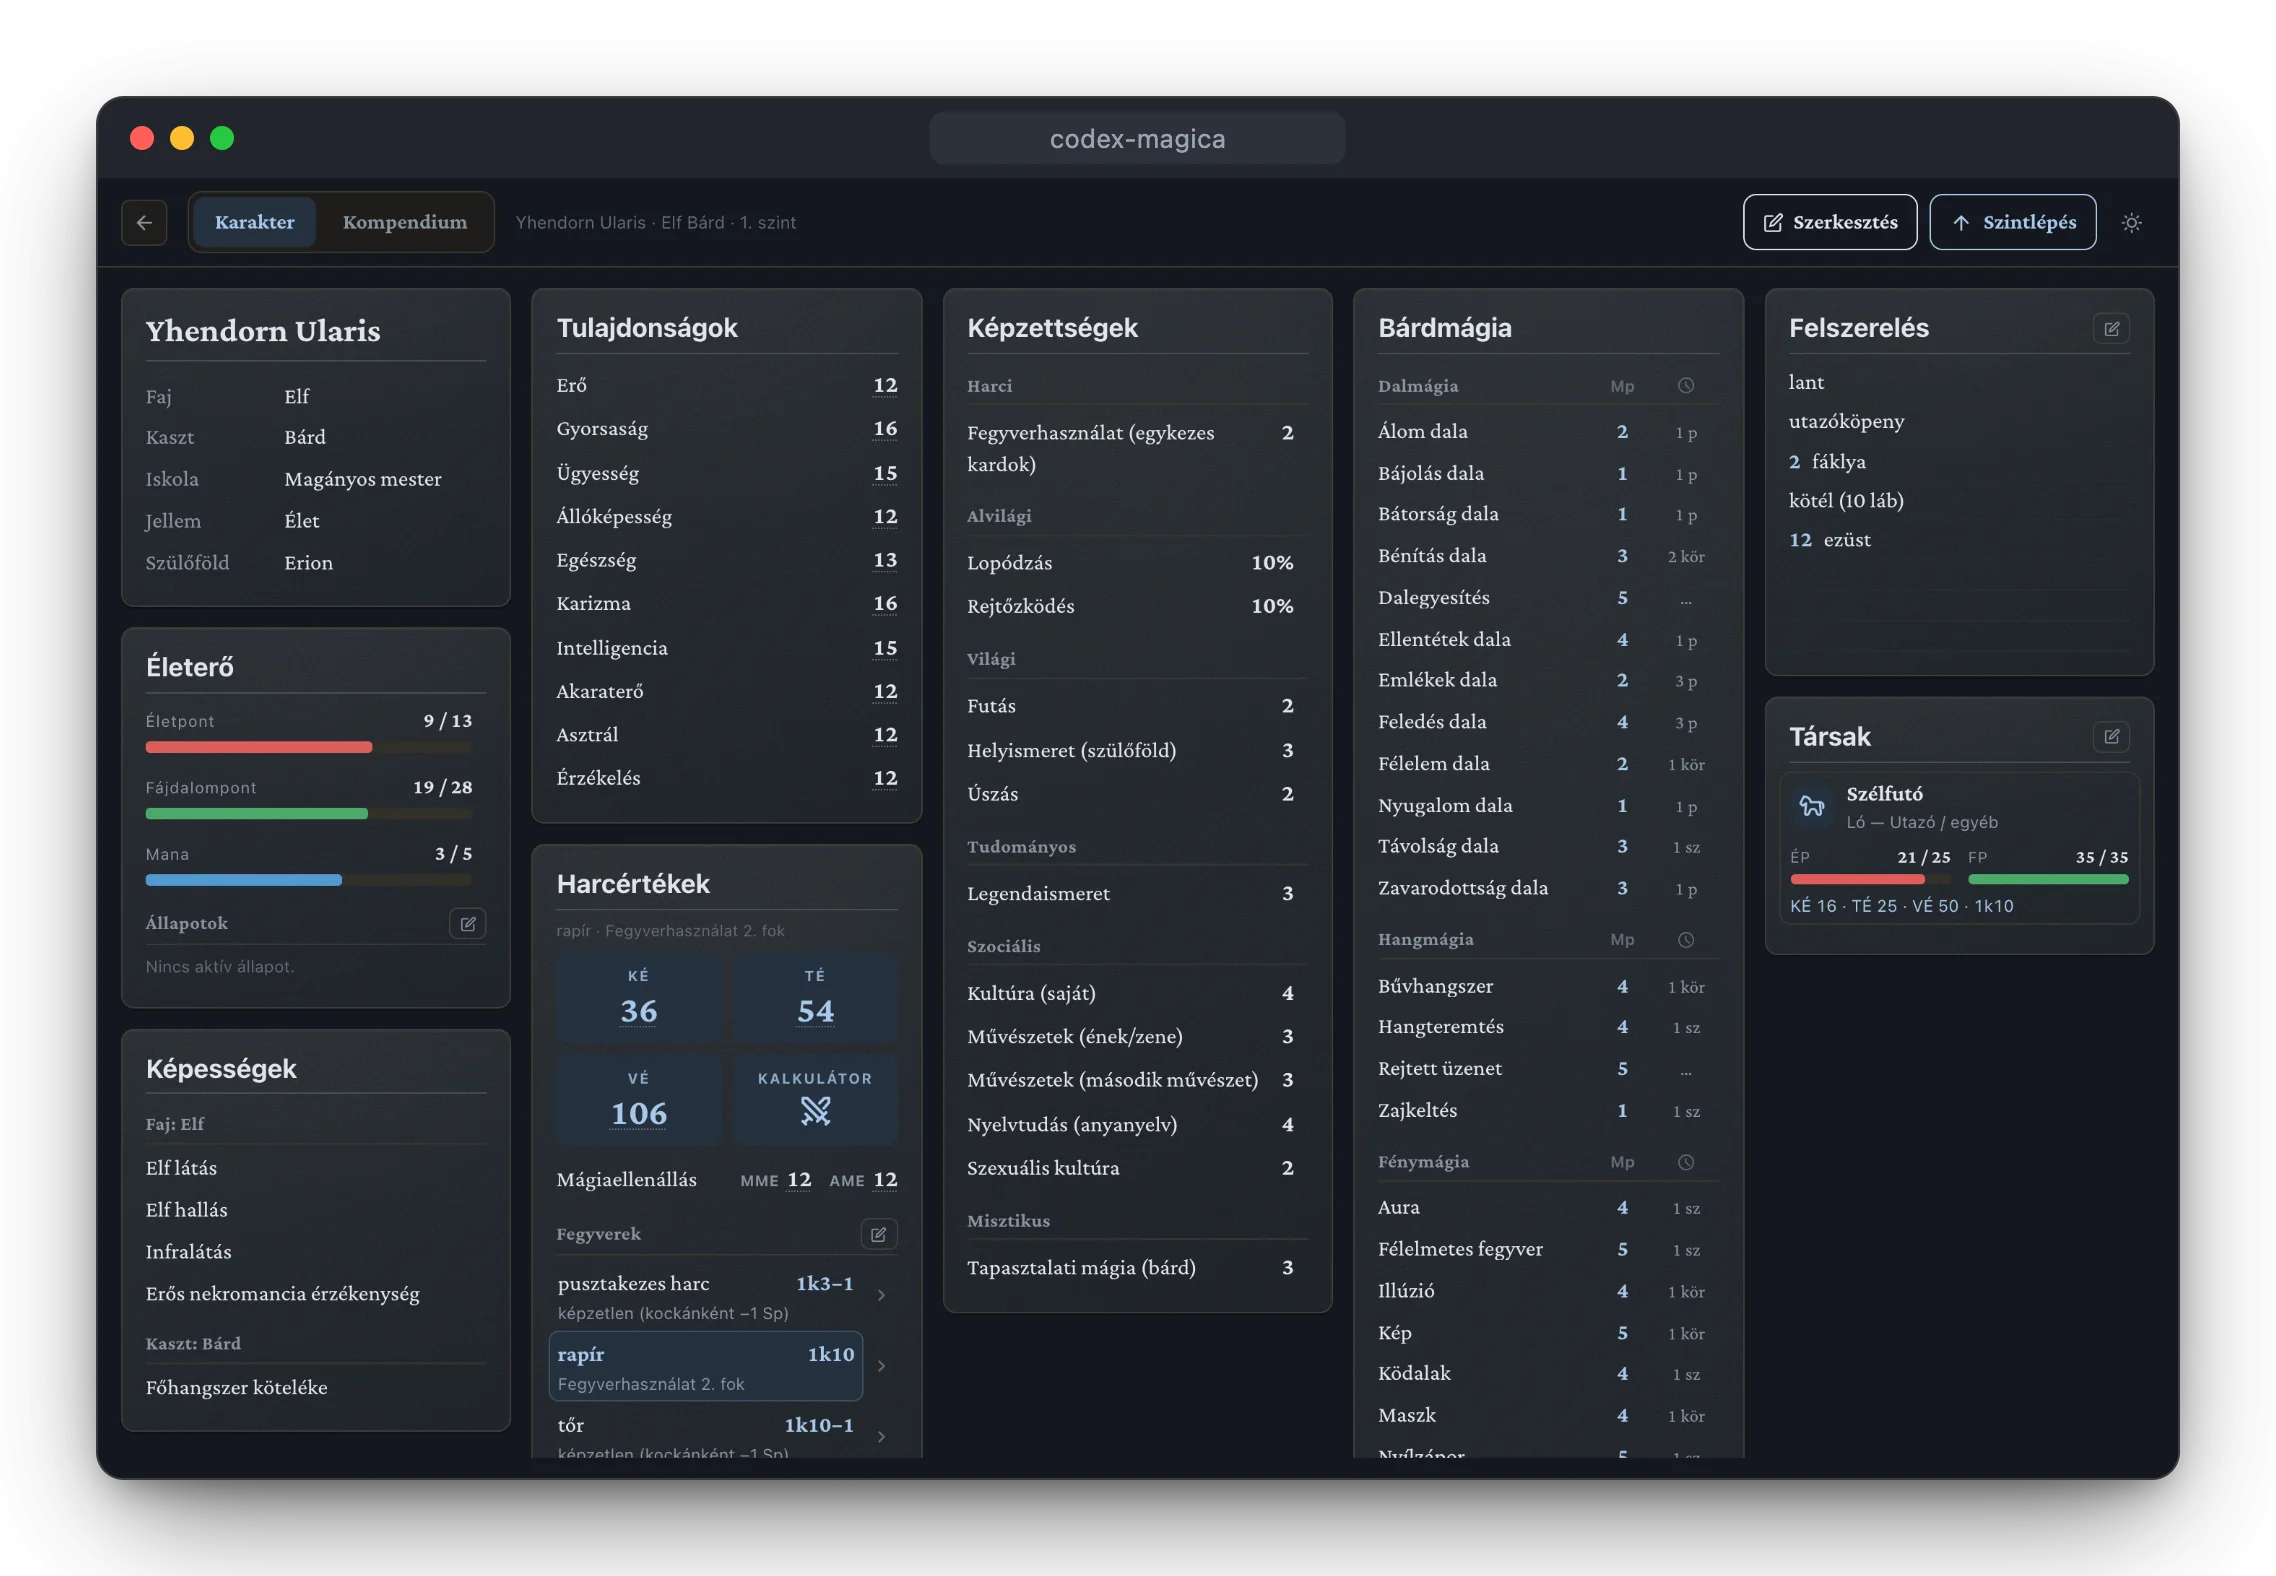
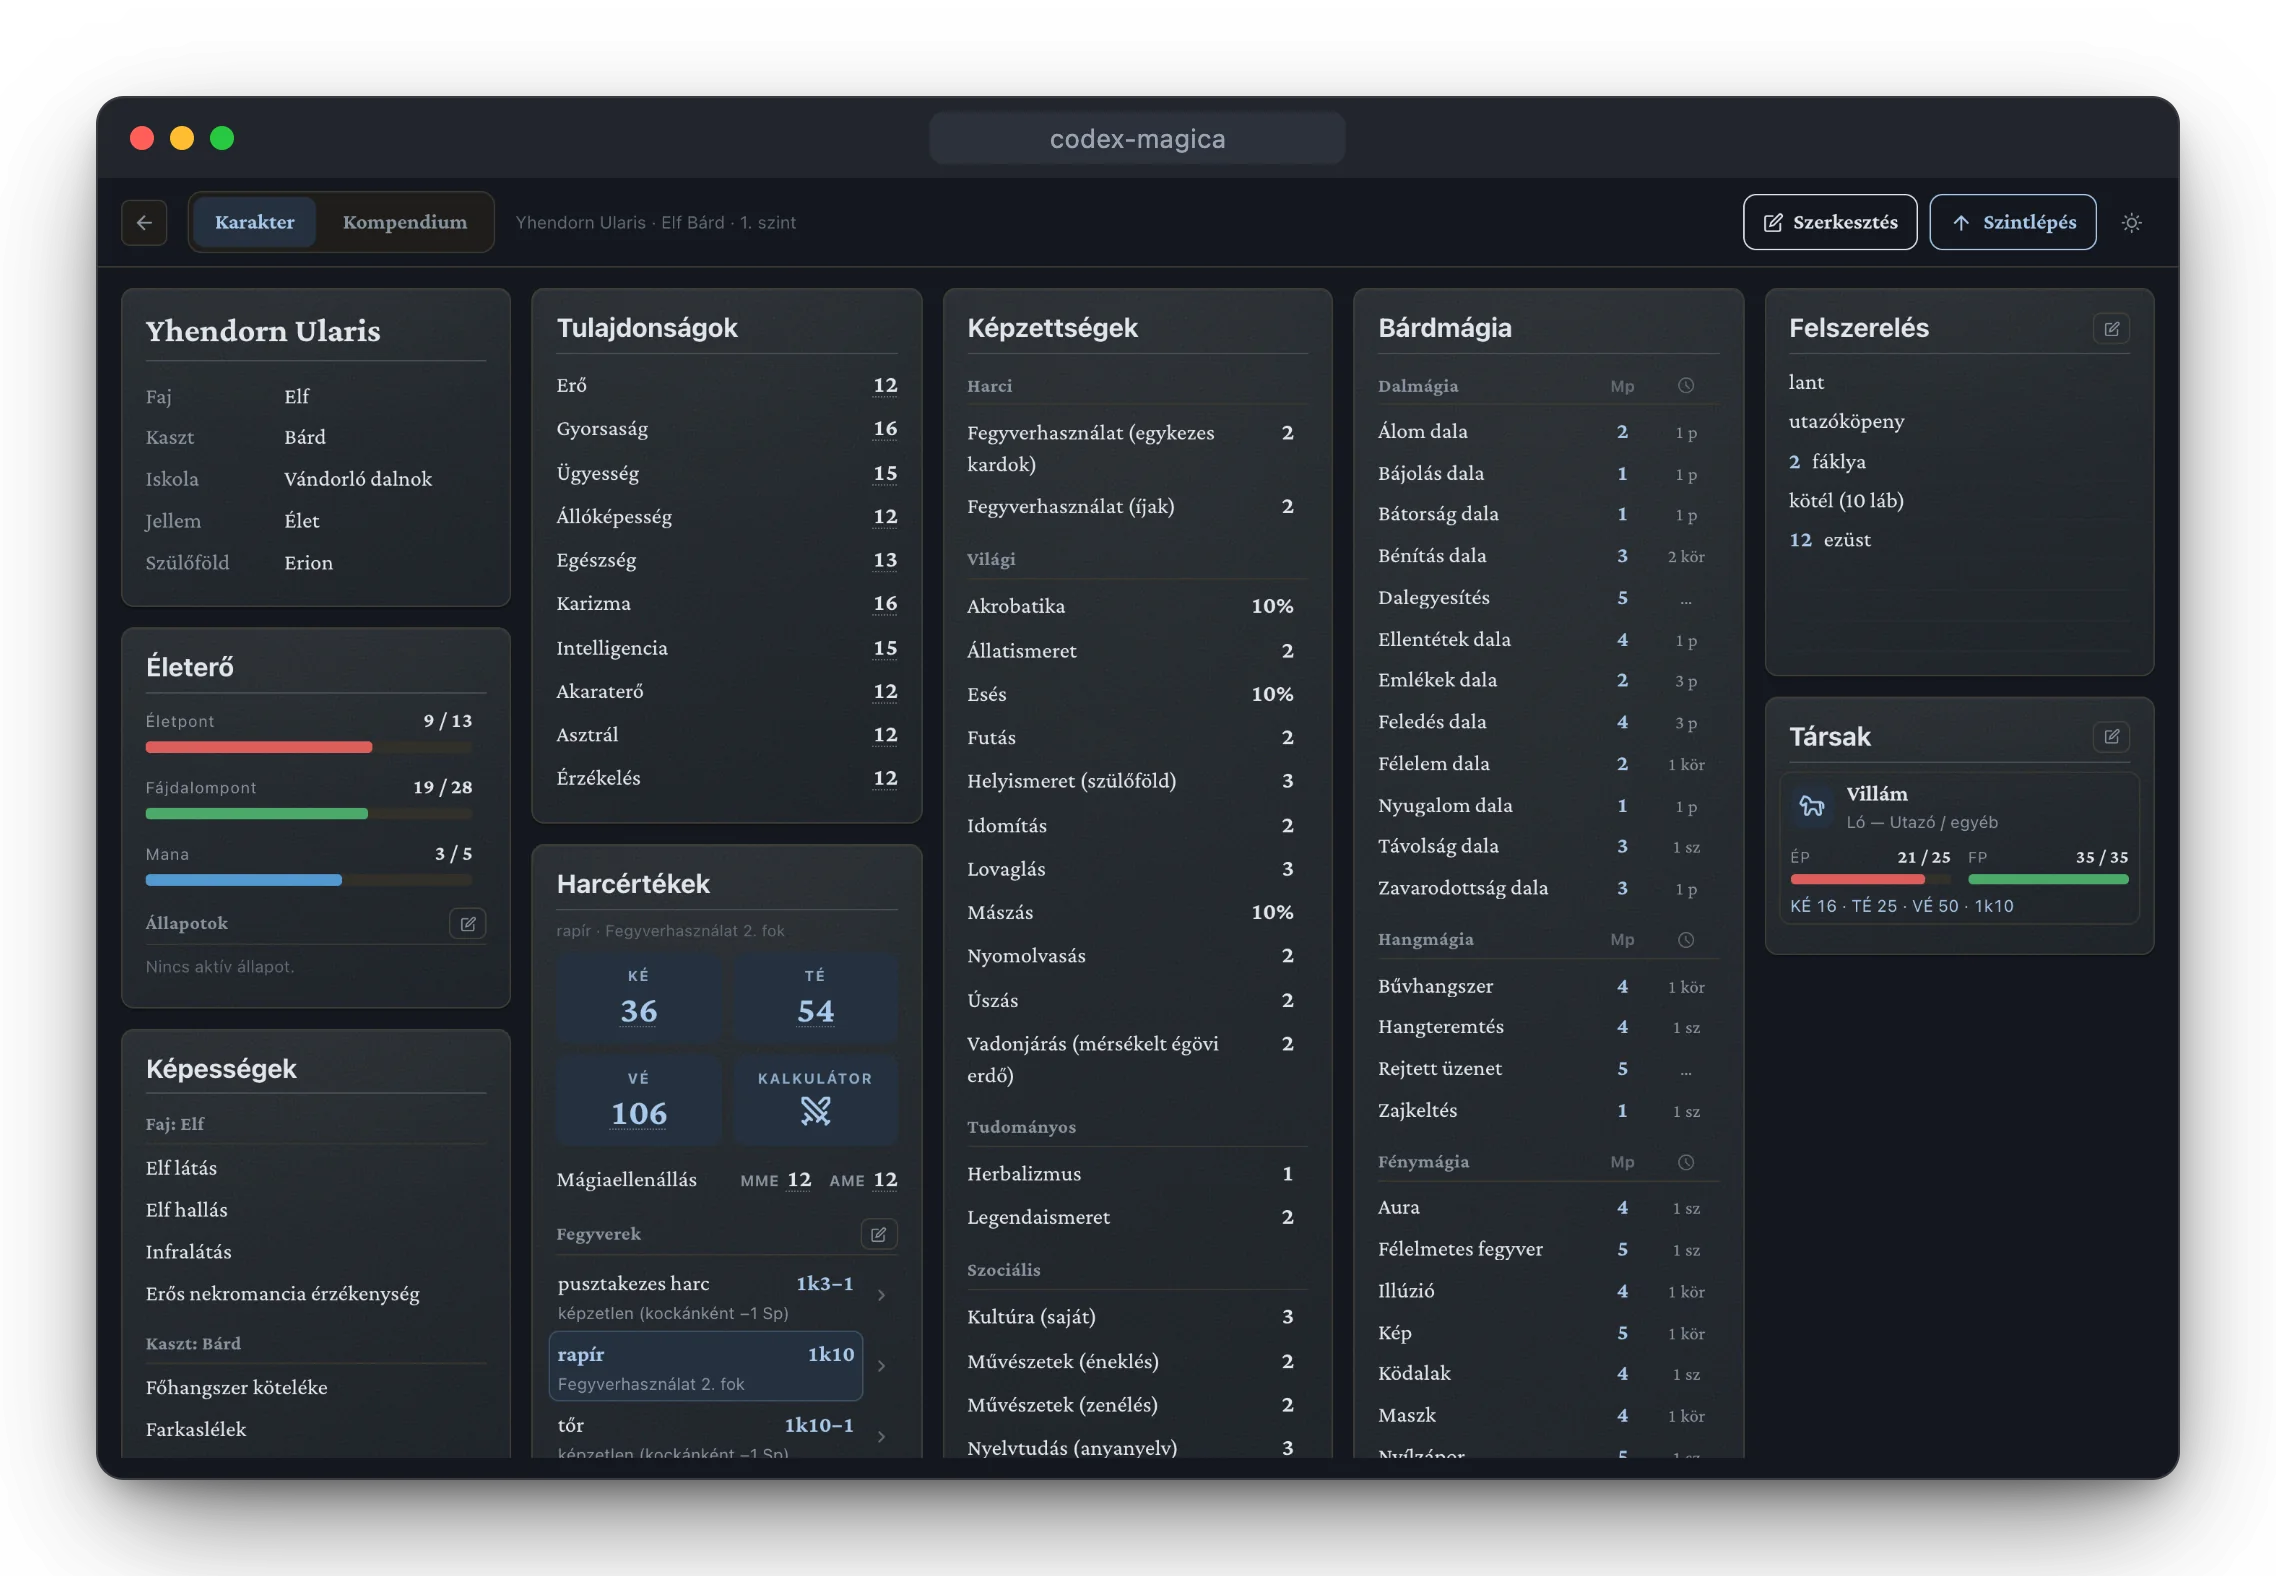
README and images for first-time visitors
- the author named in the footer (English and Hungarian), with a link
- a link row under the tagline; "Under the hood, in short" for technical
  readers; a short "How I worked" note on the AI assistance
- the sync text says what conflicts do now: the app asks which version to
  keep (or keeps both)
- hero, phone and social preview images re-shot the same way: the bard is
  a Vándorló dalnok (riding, animal handling: fits the concept and the
  horse, now called Villám)

diff --git a/README.md b/README.md
@@ -14,6 +14,8 @@ Runs in the browser · installs to the home screen · works offline · optional 
 
 [**Open the app**](https://codex-magica.github.io/) · **English** · [Magyar](README.hu.md)
 
+[Features](#features) · [Install it](#use-it) · [How it was built](#how-it-was-built)
+
 [![CI](https://github.com/codex-magica/codex-magica.github.io/actions/workflows/ci.yml/badge.svg)](https://github.com/codex-magica/codex-magica.github.io/actions/workflows/ci.yml)
 ![TypeScript](https://img.shields.io/badge/TypeScript-3178C6?logo=typescript&logoColor=white)
 ![React 19](https://img.shields.io/badge/React_19-149ECA?logo=react&logoColor=white)
@@ -49,6 +51,19 @@ Codex Magica turns the book into:
 
 It covers 12 classes, 6 races, 83 skills, 636 spells, prayers and psi disciplines, 83 weapons and 21 armors
 and shields. The UI is in Hungarian, like the game.
+
+### Under the hood, in short
+
+- **A 514-page scanned rulebook turned into data** by an OCR + LLM pipeline, then proofread by hand
+  ([how](#1--from-a-scanned-pdf-to-markdown)).
+- **A pure rules engine:** every value on the sheet is recomputed from the character's per-level decisions,
+  with its provenance, and golden snapshot tests pin the rules ([how](#2--from-text-to-a-rules-engine)).
+- **Local-first sync with no backend of my own:** each device writes its own file to the player's Google
+  Drive; version vectors tell replaced from parallel edits, a conflict asks the player which version to
+  keep, and randomized multi-device tests check that nothing is lost ([how](#3--an-app-without-a-server)).
+- **A stateless token service** on Cloudflare's free plan keeps Google's permission renewed without
+  storing anything.
+- **250+ tests**, type-checked and linted in CI.
 
 ## Features
 
@@ -133,8 +148,8 @@ same on your phone, tablet and computer:
   of your other files. Google also shares your email address, so the app can show which account syncs.
 - Changes sync a few seconds after you make them, when you leave the app and when you come back. Changes
   made offline go up once you're back online.
-- If the same character was edited on two devices before they could sync, both versions are kept.
-  Nothing is overwritten silently.
+- If the same character was edited on two devices before they could sync, the app asks which version to
+  keep (or keeps both). Nothing is overwritten silently.
 - With daily backups on (the default), the last state of each day a character was edited, and its last
   state before deletion, stay in your Drive too, and can be restored from the sync window.
 - You give Google's permission once per device, and the app keeps it renewed by itself: no hourly prompts.
@@ -232,7 +247,8 @@ flowchart LR
   only its own JSON file in the player's app-data folder and reads the others', so two devices can never
   overwrite each other (Drive has no conditional writes). Every character carries a version vector, so
   "replaced" and "edited in parallel" are told apart without trusting device clocks: an edit beats a
-  parallel deletion, and parallel edits keep both versions, resolved identically on every device. A failed or
+  parallel deletion, and for parallel edits the player is asked which version to keep; the other one is
+  stored alongside until then, identically on every device. A failed or
   damaged download never leads to an overwrite, and optional daily backups keep each day's last state and
   the last state before a deletion. Randomized tests run several devices with concurrent rounds, failing
   requests and skewed clocks, and check that they converge and lose nothing.
@@ -244,7 +260,13 @@ flowchart LR
   never sees Drive data. Setup, details and the
   options weighed: [docs/google-drive-sync.md](docs/google-drive-sync.md).
 
-### 4 · Hosting
+### 4 · How I worked
+
+I built this with AI coding assistants (Claude). I set the direction, the architecture and the game's
+rules, checked the data against the book, and reviewed the changes; the commits made together with an
+assistant are marked as co-authored. The PDF pipeline above also uses LLMs, as described there.
+
+### 5 · Hosting
 
 The app is a static, offline-capable build (a service worker precaches everything), so any static host
 works. This repository deploys itself to GitHub Pages with a GitHub Actions workflow, and a fork can do the
@@ -363,5 +385,5 @@ from [Lucide](https://lucide.dev) and [Tabler](https://tabler.io/icons); their l
 
 <div align="center">
 <br>
-<sub>Made for one gaming group, shared with everyone who still plays on Ynev. 🎲</sub>
+<sub>Made by <a href="https://github.com/marcigo36">Márton Dániel</a> for one gaming group, shared with everyone who still plays on Ynev. 🎲</sub>
 </div>

diff --git a/README.hu.md b/README.hu.md
@@ -13,6 +13,8 @@ Böngészőben fut · telepíthető a kezdőképernyőre · internet nélkül is
 
 [**Az alkalmazás megnyitása**](https://codex-magica.github.io/) · [English](README.md) · **Magyar**
 
+[Amit tud](#amit-tud) · [Telepítés](#hogyan-használhatod) · [Hogyan készült?](#hogyan-készült)
+
 [![CI](https://github.com/codex-magica/codex-magica.github.io/actions/workflows/ci.yml/badge.svg)](https://github.com/codex-magica/codex-magica.github.io/actions/workflows/ci.yml)
 ![TypeScript](https://img.shields.io/badge/TypeScript-3178C6?logo=typescript&logoColor=white)
 ![React 19](https://img.shields.io/badge/React_19-149ECA?logo=react&logoColor=white)
@@ -97,8 +99,8 @@ szinkront, és a karaktereid a telefonodon, a tableteden és a gépeden is ugyan
   szinkronizál.
 - A módosítások néhány másodperc múlva szinkronizálódnak, és akkor is, amikor kilépsz az alkalmazásból
   vagy visszatérsz. Ami internet nélkül változott, az a kapcsolat helyreálltakor töltődik fel.
-- Ha ugyanazt a karaktert két eszközön is módosítottad, mielőtt szinkronizálódhattak volna, mindkét
-  változat megmarad. Semmi sem íródik felül észrevétlenül.
+- Ha ugyanazt a karaktert két eszközön is módosítottad, mielőtt szinkronizálódhattak volna, az alkalmazás
+  megkérdezi, melyik változat maradjon (vagy mindkettőt megtartja). Semmi sem íródik felül észrevétlenül.
 - A napi biztonsági másolat (alapból bekapcsolva) a Drive-on azt is megőrzi, milyen volt egy karakter
   azoknak a napoknak a végén, amikor módosítottad, és hogy milyen volt törlés előtt. Ezeket a Google
   Drive ablakban állíthatod vissza.
@@ -204,5 +206,5 @@ A felület betűtípusa a [Crimson Pro](https://github.com/Fonthausen/CrimsonPro
 
 <div align="center">
 <br>
-<sub>Egy játékoscsapatnak készült, és mindenkinek szól, aki még mindig Yneven kalandozik. 🎲</sub>
+<sub>Készítette <a href="https://github.com/marcigo36">Márton Dániel</a> egy játékoscsapatnak, és mindenkinek szól, aki még mindig Yneven kalandozik. 🎲</sub>
 </div>
